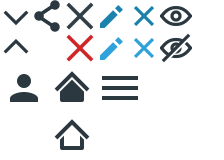
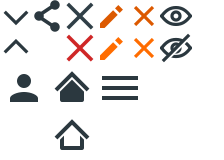
CLOUD-2311: Integration store: search
<==== Mercurial data ====>
Branch: cloud_19.1

diff --git a/front_end/app/src/pages/integration/integrations.component.ts b/front_end/app/src/pages/integration/integrations.component.ts
@@ -64,11 +64,9 @@ export class NxIntegrationsComponent implements OnInit {
                     });
     }
 
-    setTags(filtered?) {
-        const elements = (!filtered) ? this.allElements : this.elements;
-        this.filterModel.tags = [];
+    setTags() {
 
-        elements.forEach((integration) => {
+        this.allElements.forEach((integration) => {
             integration.information.type.forEach((type) => {
                 const found = this.filterModel.tags.some((tag) => tag.id === type);
                 if (!found) {
@@ -99,7 +97,6 @@ export class NxIntegrationsComponent implements OnInit {
             });
         }
 
-        this.setTags(true /*filtered*/);
         if (this.filterModel.tags.length) {
             const hasTagSelection = this.filterModel.tags.some((tag) => tag.value);
 
